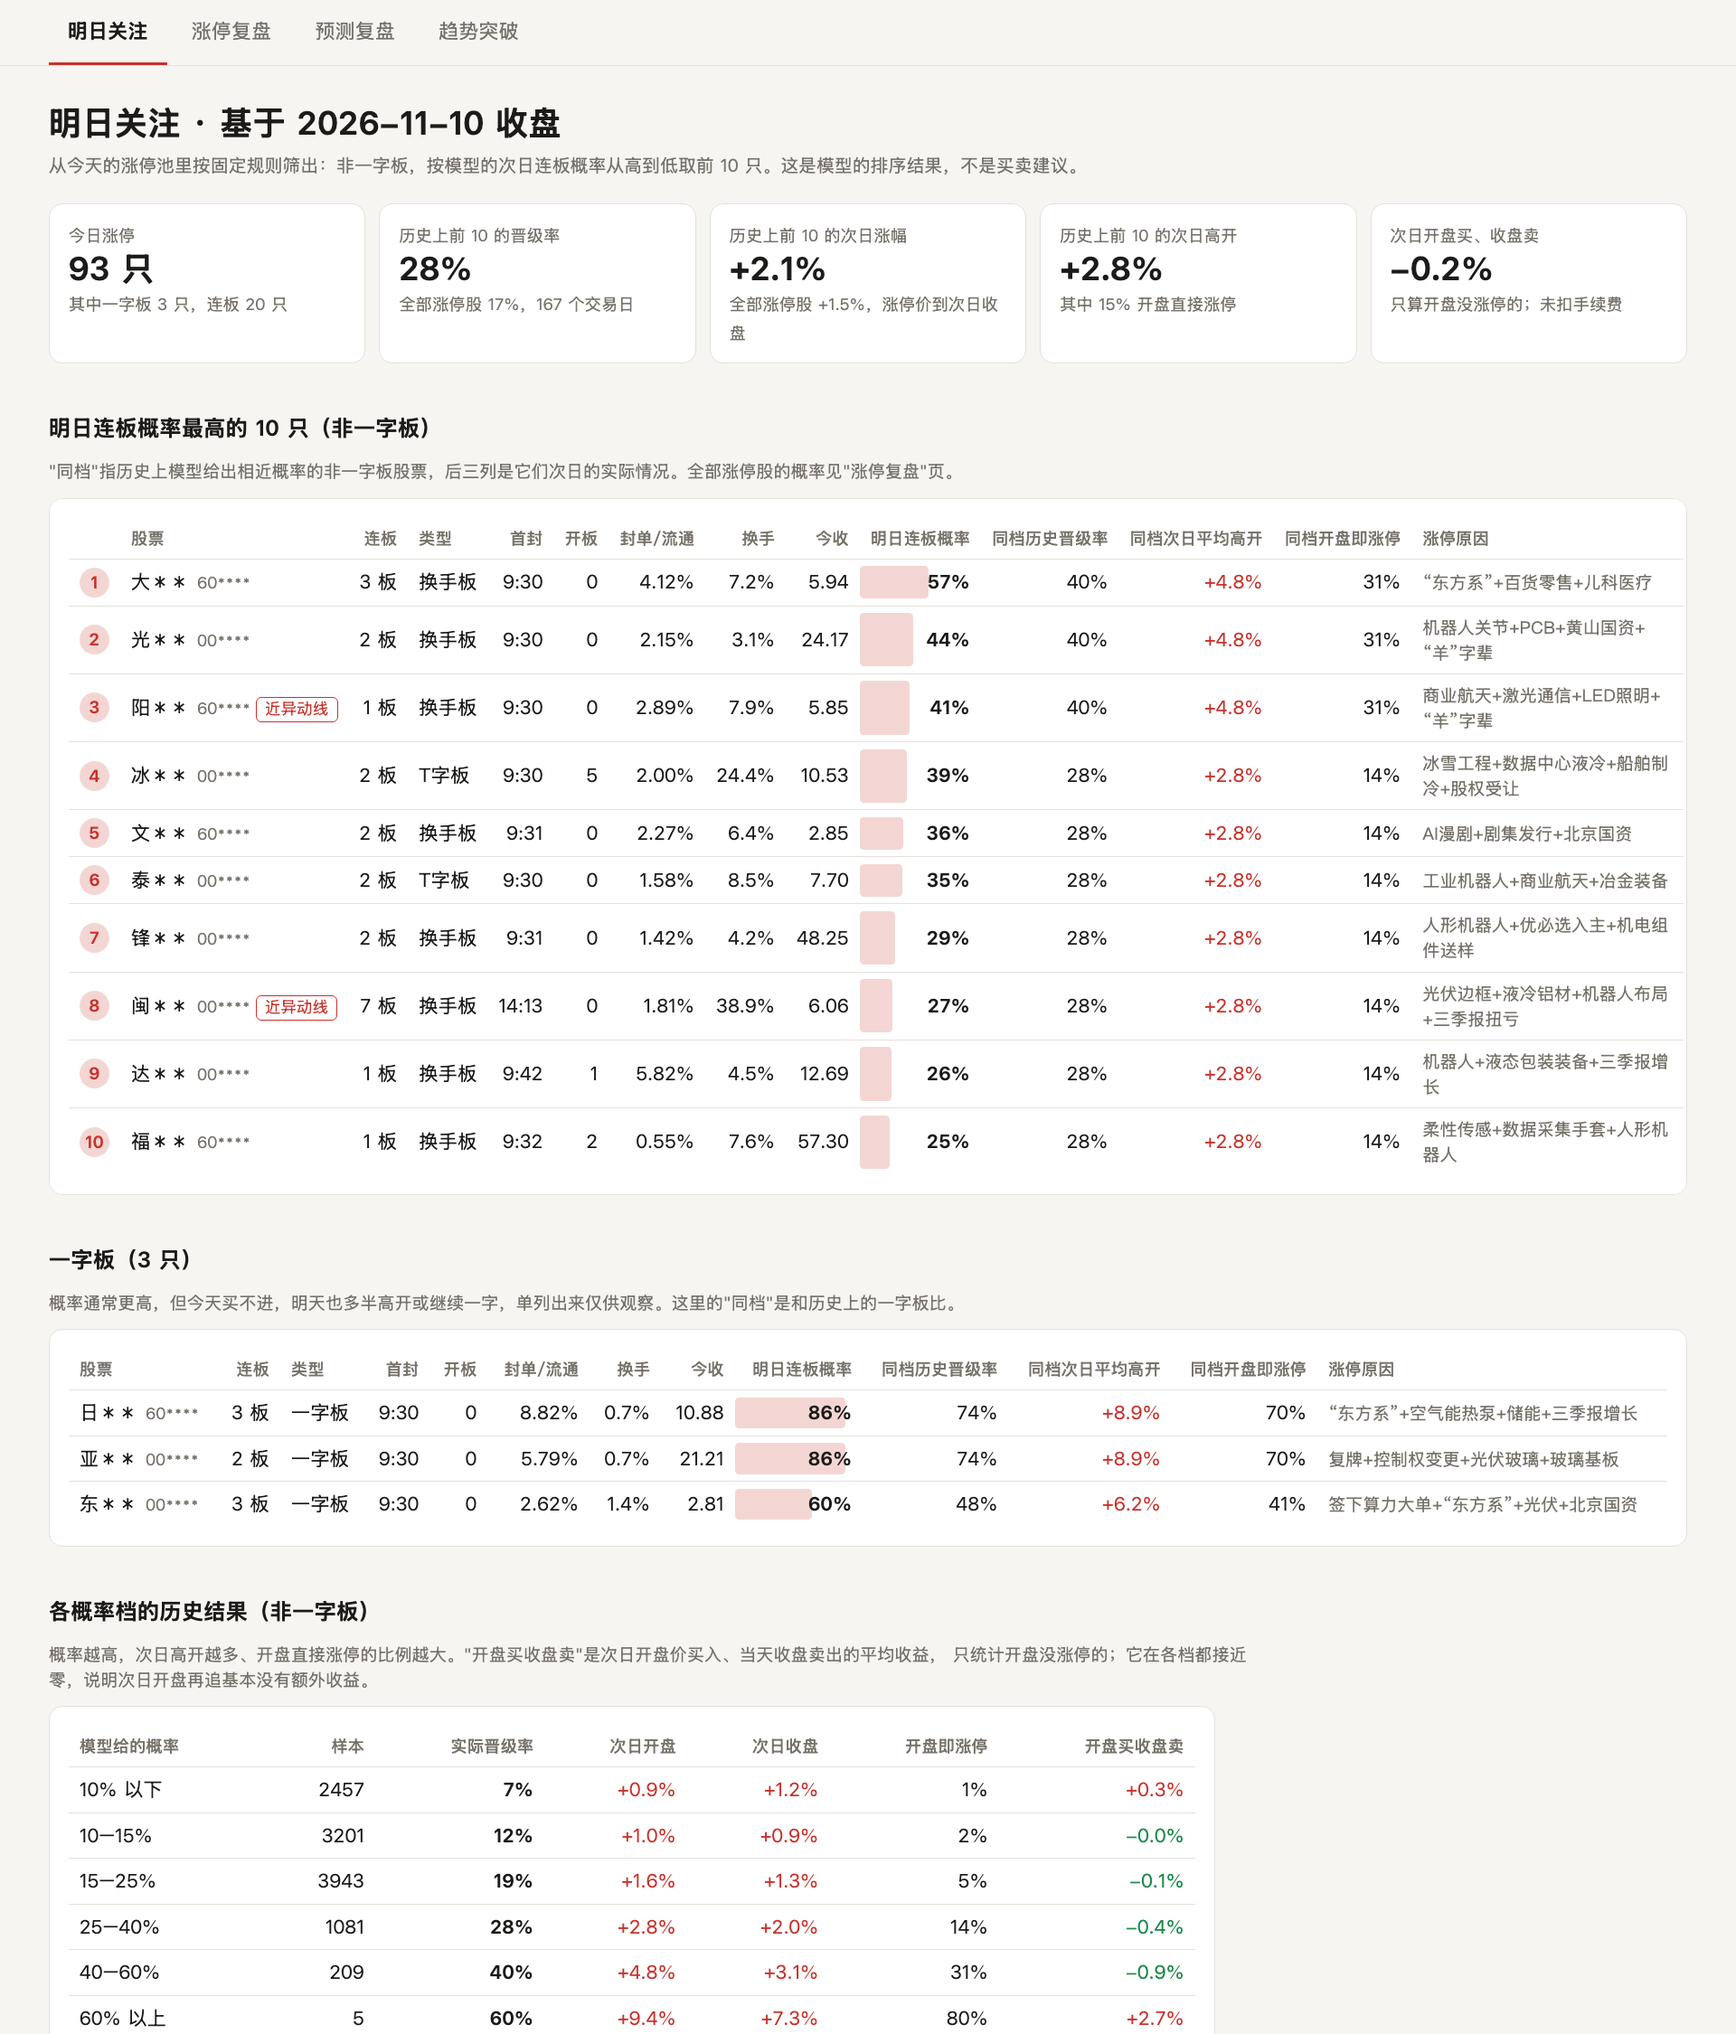
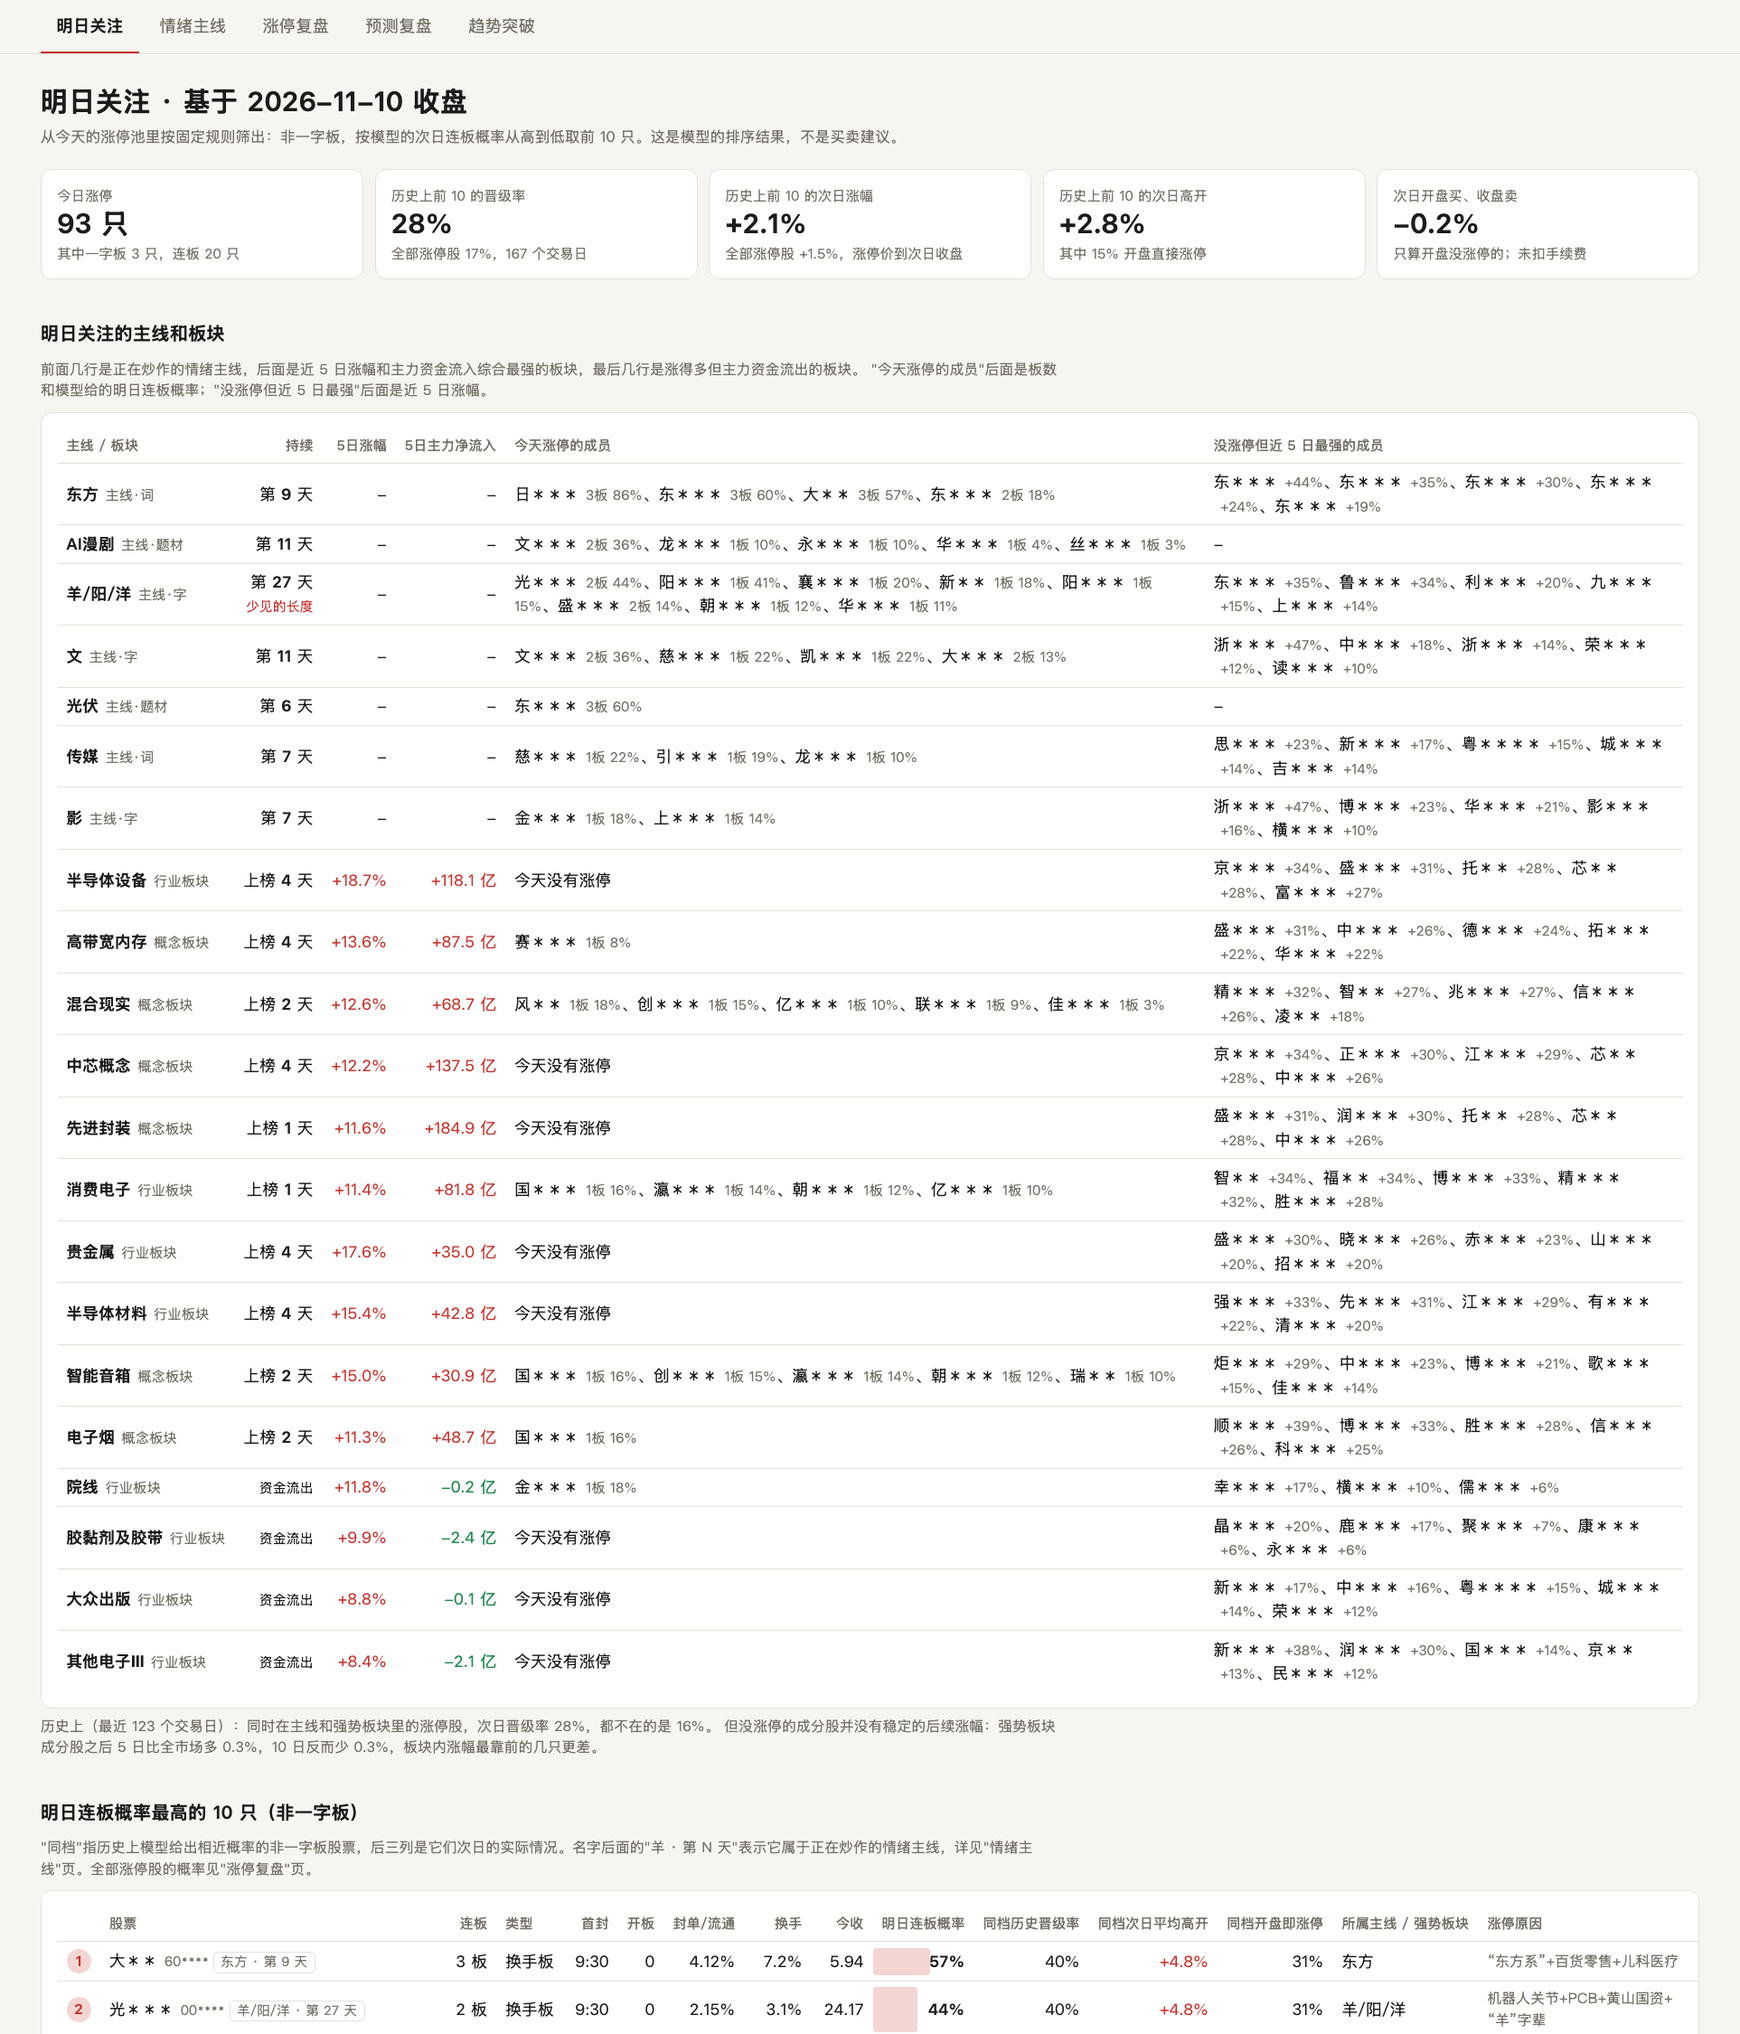
明日关注加入主线和板块，README 补充情绪主线截图
- 明日关注新增「明日关注的主线和板块」：每条主线/强势板块列出今天涨停的成员和没涨停但近 5 日最强的成员
- 关注名单每只股票多一列所属主线 / 强势板块
- README 更新明日关注截图，新增情绪主线截图和对应说明

diff --git a/ztfp/page.py b/ztfp/page.py
@@ -13,11 +13,12 @@ from html import escape as e
 import numpy as np
 import pandas as pd
 
-from . import hot, report, review, trend
+from . import hot, report, review, sector, trend
 from .db import ROOT, connect
 from .report import CSS, JS, _col, _hm, _pct, _prob
 
 TOP_N = 10
+WRAP = ' style="white-space:normal;min-width:300px"'     # 成员列允许换行，不然右边的列会被挤出屏幕
 BINS = [0, .10, .15, .25, .40, .60, 1.01]
 BIN_NAMES = ["10% 以下", "10–15%", "15–25%", "25–40%", "40–60%", "60% 以上"]
 
@@ -40,6 +41,85 @@ const h=location.hash.slice(1);show(document.querySelector('section[data-p="'+h+
 def _main(path):
     """取出一个单页的 <main> 内容。"""
     return re.search(r"<main>(.*)</main>", path.read_text(encoding="utf-8"), re.S).group(1)
+
+
+def _r5(date):
+    """全市场股票近 5 日涨幅 {代码: 涨幅}，来自趋势库；没有就返回空。"""
+    try:
+        from .trend_data import connect as tc
+        con = tc()
+        ds = [r[0] for r in con.execute("SELECT DISTINCT date FROM k WHERE code='IDX' AND date<=? ORDER BY date DESC LIMIT 6", (date,))]
+        k = pd.read_sql("SELECT code, date, close FROM k WHERE date IN (?, ?)", con, params=(ds[-1], ds[0]))
+        con.close()
+        p = k.pivot(index="code", columns="date", values="close")
+        return (p[ds[0]] / p[ds[-1]] - 1).dropna().to_dict()
+    except Exception:
+        return {}
+
+
+def _themes(d, date):
+    """明日关注的板块和主线：每条带上今天涨停的成员（含连板概率）和没涨停但近 5 日最强的成员。
+    返回 (表格 html, {代码: [所属板块/主线名]})。"""
+    prob = d.set_index("code").p_lb.to_dict()
+    lbs = d.set_index("code").lb.to_dict()
+    names = d.set_index("code")["name"].to_dict()
+    r5 = _r5(date)
+    belong = {}
+    yi = lambda v: f"{v / 1e8:+.1f} 亿"
+
+    def cells(codes, allnames):
+        """codes: 这个板块/主线的全部成员代码 -> (今天涨停的, 没涨停但近 5 日最强的)"""
+        zt = sorted([c for c in codes if c in prob], key=lambda c: -(prob[c] if prob[c] == prob[c] else 0))
+        a = "、".join(f'{e(names[c])}<span class="code">{lbs[c]}板 {_pct(prob[c], 0)}</span>' for c in zt[:8]) or "今天没有涨停"
+        if len(zt) > 8:
+            a += f" 等 {len(zt)} 只"
+        rest = sorted([c for c in codes if c not in prob and c in r5], key=lambda c: -r5[c])[:5]
+        b = "、".join(f'{e(allnames.get(c, c))}<span class="code">{r5[c] * 100:+.0f}%</span>' for c in rest) or "-"
+        return a, b
+
+    rows = ""
+    try:
+        cur, _, _ = hot.current(date)
+    except Exception:
+        cur = []
+    for c in cur:
+        if c["idle"] > 0:
+            continue
+        allm = hot.name_members(c["kind"], c["tok"])
+        codes = set(allm) | set(c["mem"].code)
+        for code in c["mem"].code:
+            belong.setdefault(code, []).append(c["label"])
+        a, b = cells(codes, allm)
+        late = c["age"] > hot.LONG
+        rows += (f'<tr><td class="l"><b>{e(c["label"])}</b><span class="code">主线·{c["kind"]}</span></td>'
+                 f'<td>第 <b>{c["age"]}</b> 天{"<br><small style=color:var(--up)>少见的长度</small>" if late else ""}</td>'
+                 f'<td>-</td><td>-</td><td class="l"{WRAP}>{a}</td><td class="l"{WRAP}>{b if c["kind"] != "题材" else "-"}</td></tr>')
+    try:
+        top, outflow, _ = sector.top(date)
+    except Exception:
+        top, outflow = [], []
+    for o, flag in [(o, "") for o in top[:10]] + [(o, "资金流出") for o in outflow if o["n_zt"] > 0][:4]:
+        m = o["mem"]
+        allm = dict(zip(m.stock, m.name))
+        for code in m.stock:
+            if code in prob:
+                belong.setdefault(code, []).append(o["name"])
+        a, b = cells(set(m.stock), allm)
+        days = f'上榜 <b>{o["days"]}</b> 天' if not flag else f'<small>{flag}</small>'
+        rows += (f'<tr><td class="l"><b>{e(o["name"])}</b><span class="code">{o["kind"]}板块</span></td><td>{days}</td>'
+                 f'<td class="{_col(o["r"])}">{_pct(o["r"], 1, True)}</td><td class="{_col(o["f"])}">{yi(o["f"])}</td>'
+                 f'<td class="l"{WRAP}>{a}</td><td class="l"{WRAP}>{b}</td></tr>')
+    if not rows:
+        return "", belong
+    html = f"""<h2>明日关注的主线和板块</h2>
+<div class="note">前面几行是正在炒作的情绪主线，后面是近 5 日涨幅和主力资金流入综合最强的板块，最后几行是涨得多但主力资金流出的板块。
+"今天涨停的成员"后面是板数和模型给的明日连板概率；"没涨停但近 5 日最强"后面是近 5 日涨幅。</div>
+<div class="card scroll"><table><thead><tr><th class="l">主线 / 板块</th><th>持续</th><th>5日涨幅</th><th>5日主力净流入</th>
+<th class="l">今天涨停的成员</th><th class="l">没涨停但近 5 日最强的成员</th></tr></thead><tbody>{rows}</tbody></table></div>
+<div class="note">历史上（最近 123 个交易日）：同时在主线和强势板块里的涨停股，次日晋级率 28%，都不在的是 16%。
+但没涨停的成分股并没有稳定的后续涨幅：强势板块成分股之后 5 日比全市场多 0.3%，10 日反而少 0.3%，板块内涨幅最靠前的几只更差。</div>
+"""
+    return html, belong
 
 
 def _watch():
@@ -72,6 +152,8 @@ def _watch():
     allz = f[(f.oos == 1) & f.y_lb.notna()]
 
     theme = hot.today_tags(date)       # {代码: (主线, 已炒作天数)}
+    d["b"] = pd.cut(d.p_lb, BINS, right=False, labels=BIN_NAMES)
+    themes_html, belong = _themes(d, date)
 
     def rows(df, ranked, hb):
         out = ""
@@ -88,11 +170,12 @@ def _watch():
                 + f'<td class="l">{e(r["name"])}<span class="code">{r.code}</span>{tags}</td>'
                 f'<td>{r.lb} 板</td><td class="l">{e(r.limit_up_type or "")}</td><td>{_hm(r.first_min)}</td><td>{int(r.open_num)}</td>'
                 f'<td>{_pct(r.seal_ratio, 2)}</td><td>{r.turnover_rate:.1f}%</td><td>{r.latest:.2f}</td>'
-                f'{_prob(r.p_lb)}{hist}<td class="r">{e(r.reason_type or "")}</td></tr>')
+                f'{_prob(r.p_lb)}{hist}<td class="l">{e("、".join(belong.get(r.code, [])[:3])) or "-"}</td>'
+                f'<td class="r">{e(r.reason_type or "")}</td></tr>')
         return out
 
     head = ('<th class="l">股票</th><th>连板</th><th class="l">类型</th><th>首封</th><th>开板</th><th>封单/流通</th><th>换手</th>'
-            '<th>今收</th><th>明日连板概率</th><th>同档历史晋级率</th><th>同档次日平均高开</th><th>同档开盘即涨停</th><th class="l">涨停原因</th>')
+            '<th>今收</th><th>明日连板概率</th><th>同档历史晋级率</th><th>同档次日平均高开</th><th>同档开盘即涨停</th><th class="l">所属主线 / 强势板块</th><th class="l">涨停原因</th>')
     buy = d[d.limit_up_type != "一字板"].sort_values("p_lb", ascending=False)
     yz = d[d.limit_up_type == "一字板"].sort_values("p_lb", ascending=False)
     t1 = f'<div class="card scroll"><table><thead><tr><th></th>{head}</tr></thead><tbody>{rows(buy.head(TOP_N), True, hb)}</tbody></table></div>'
@@ -118,6 +201,7 @@ def _watch():
 <div class="sub">从今天的涨停池里按固定规则筛出：非一字板，按模型的次日连板概率从高到低取前 {TOP_N} 只。这是模型的排序结果，不是买卖建议。</div>
 <div class="tiles">{tiles}</div>
 
+{themes_html}
 <h2>明日连板概率最高的 {TOP_N} 只（非一字板）</h2>
 <div class="note">"同档"指历史上模型给出相近概率的非一字板股票，后三列是它们次日的实际情况。名字后面的"羊 · 第 N 天"表示它属于正在炒作的情绪主线，详见"情绪主线"页。全部涨停股的概率见"涨停复盘"页。</div>
 {t1}

diff --git a/ztfp/sector.py b/ztfp/sector.py
@@ -187,12 +187,12 @@ def top(date=None, n=TOP):
         m = m.sort_values(["zt", "lb", "r5"], ascending=False)
         out.append(dict(code=r.code, name=r.name, kind=r.kind, r=r.r, f=r.f, fr=r.fr, rk=int(r.rk), days=days,
                         since=cal[i - days + 1] if days else date, n_stock=len(m), n_zt=int((m.zt > 0).sum()),
-                        n_today=int((m.lb > 0).sum()), lead=m[m.zt > 0].head(5), gain=m.sort_values("r5", ascending=False).head(3)))
+                        n_today=int((m.lb > 0).sum()), lead=m[m.zt > 0].head(5), mem=m))
     # 涨得多但主力资金在流出的：情绪炒作的板块常在这里（游资在买、大单在卖）
     o = d[(d.date == date) & (d.f < 0) & (d.r > 0)].sort_values("r", ascending=False).head(8)
     outflow = []
     for r in o.itertuples():
         m = mem[mem.code == r.code]
         m = m.assign(zt=m.stock.map(ztc.n).fillna(0), lb=m.stock.map(today).fillna(0), r5=m.stock.map(r5)).sort_values(["zt", "lb", "r5"], ascending=False)
-        outflow.append(dict(code=r.code, name=r.name, kind=r.kind, r=r.r, f=r.f, n_zt=int((m.zt > 0).sum()), lead=m[m.zt > 0].head(5)))
+        outflow.append(dict(code=r.code, name=r.name, kind=r.kind, r=r.r, f=r.f, n_zt=int((m.zt > 0).sum()), lead=m[m.zt > 0].head(5), mem=m))
     return out, outflow, date

diff --git a/ztfp/hot.py b/ztfp/hot.py
@@ -217,6 +217,20 @@ def current(date=None):
     return main, cal, date
 
 
+def name_members(kind, tok):
+    """全市场名字里带这个字/词的股票代码（题材类没有全市场名单，返回空）。"""
+    if kind == "题材":
+        return {}
+    try:
+        from .trend_data import connect as tc
+        con = tc()
+        u = pd.read_sql("SELECT code, name FROM stock", con)
+        con.close()
+    except Exception:
+        return {}
+    return {c: n for c, n in zip(u.code, u.name) if (kind, tok) in _name_tokens(n)}
+
+
 def today_tags(date=None):
     """{股票代码: "羊/阳/洋 · 第 30 天"}，给明日关注名单打标记用。一只股票属于多条主线时取最热的。"""
     try:

diff --git a/README.md b/README.md
@@ -152,7 +152,16 @@ Windows 用"任务计划程序"建一个每天 15:30 触发的任务，执行同
 
 ### 明日关注
 
-从当天涨停池里按固定规则筛出来的名单：**非一字板，按模型的次日连板概率从高到低取前 10 只**。一字板单独列在下面，因为当天买不进。
+页面分两块。
+
+**明日关注的主线和板块**。把"在炒什么"和"里面有谁"放在一起看：
+
+- 前面几行是正在炒作的情绪主线（字、词、题材），带已炒作天数。
+- 中间是近 5 日涨幅和主力资金流入综合最强的板块，带上榜天数。
+- 最后几行是涨得多但主力资金流出的板块。
+- 每一行都列出**今天涨停的成员**（板数和明日连板概率）和**没涨停但近 5 日最强的成员**（近 5 日涨幅）。
+
+**明日连板概率最高的 10 只**。从当天涨停池里按固定规则筛出来的名单：**非一字板，按模型的次日连板概率从高到低取前 10 只**。每只股票多了一列"所属主线 / 强势板块"。一字板单独列在下面，因为当天买不进。
 
 每只股票除了概率，还有三列"同档"数据：历史上模型给出相近概率的股票，次日实际的晋级率、平均高开幅度、开盘直接涨停的比例。用它判断第二天开盘后的价位还值不值得参与。
 
@@ -163,6 +172,8 @@ Windows 用"任务计划程序"建一个每天 15:30 触发的任务，执行同
 （截图见本文开头。）
 
 ### 情绪主线
+
+![情绪主线页](docs/img/hot.png)
 
 回答两个问题：现在市场在炒什么，已经炒了多久。
 
@@ -316,6 +327,8 @@ zt-fupan/
 - 龙头断板当天（"节点"）并不比平时更容易出新龙头：未来的龙头几乎每天都已经在涨停池里。
 - 涨停次日开盘买入，持有 1 到 20 天平均都是亏的，拿得越久亏得越多；连板概率越高的，买入价越贵，结果越差。
 - 强势板块里的涨停股次日晋级率比其他高 3 个点，板块本身上榜后 10 日就没有超额了。
+- 同时在主线和强势板块里的涨停股，次日晋级率 28%，都不在的是 16%。
+- 强势板块里没涨停的成分股没有稳定的后续涨幅：之后 5 日比全市场多 0.3%，10 日反而少 0.3%，板块内涨幅最靠前的几只更差。
 
 ### 连板概率
 
